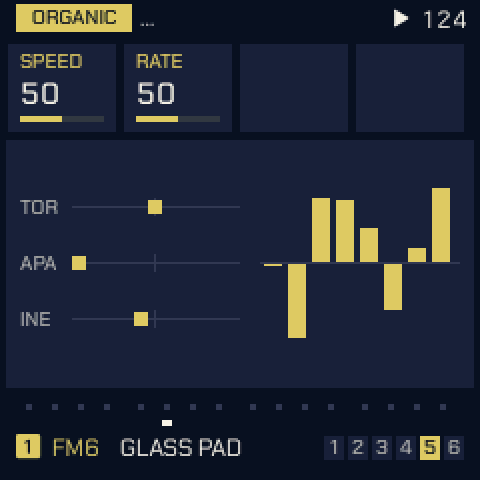
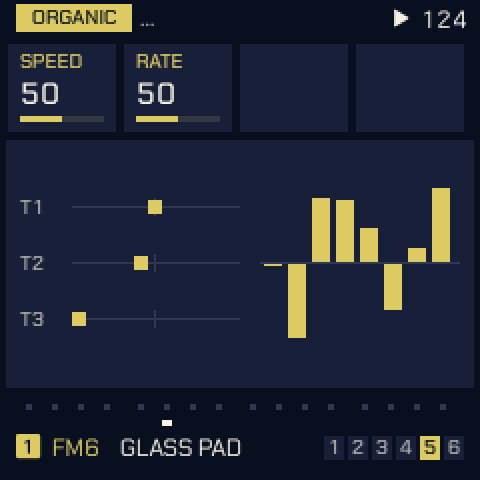
Docs: TIDE, SWARM and ATLAS names
Follows the on-screen renames (SLOTH/OCHD to TIDE/SWARM, GRIDS to ATLAS)
and re-renders the three screens that show them. Credits keep the
original works' names.

Claude-Session: https://claude.ai/code/session_01BpfmmeNBDntHrx6VWUu9nH

diff --git a/MANUAL.md b/MANUAL.md
@@ -30,7 +30,7 @@ page's four settings sit along the top of the screen in the same order.
 - [Harmony: CHORD and QNT CHRD](#harmony-chord-and-qnt-chrd)
 - [MODS: the modulation cords](#mods-the-modulation-cords)
 - [MATRIX](#matrix)
-- [ORGANIC: SLOTH and OCHD](#organic-sloth-and-ochd)
+- [ORGANIC: TIDE and SWARM](#organic-tide-and-swarm)
 - [Mod shortcut](#mod-shortcut)
 - [Help card](#help-card)
 - [Menu and settings](#menu-and-settings)
@@ -78,7 +78,7 @@ COLOR. Each track has its own colour, used for its tile, its cords and its row i
 |---|---|
 | Tap **SEQ** | **GEN** first: KNOB 1 (**MODE**) picks what the track plays. SEQ then shows only that mode's pages. |
 | Tap **ARP** | Switches a STEP track to ARP and opens **ARP**; tap again for **ARP 2**. On a generator track it opens GEN instead ("ARP: MODE ON GEN"), so a playing generator never goes quiet by accident. |
-| Hold **OCT+** on GEN | The generator's second layer, for QUAD, CHORD, GRIDS and CONSTELLATION (see [OCT+ layers](#oct-layers-on-gen)). |
+| Hold **OCT+** on GEN | The generator's second layer, for QUAD, CHORD, ATLAS and CONSTELLATION (see [OCT+ layers](#oct-layers-on-gen)). |
 | **GEN** on an AWAKE track, a white key | Picks that step: KNOB 1 sets its A, KNOB 2 its B. The same key lets it go. |
 | Hold **ARP**, turn a knob | The [help card](#help-card) for that knob. Turn the same knob further to make the text larger or scroll it. |
 | Hold **FX**, turn a knob | Sets how far a cord moves that knob's parameter (see [Mod shortcut](#mod-shortcut)). |
@@ -90,7 +90,7 @@ COLOR. Each track has its own colour, used for its tile, its cords and its row i
 | **MODS**, **OCT+** | Switches the picked mod between BI and UNI. |
 | **MATRIX**, **OCT+** | Opens the picked mod in MODS. |
 | **EDIT** on an EDIT page | The map of the sound's pages: KNOB 1 across a row, KNOB 2 between rows, OCT+ opens the page, OCT- or EDIT closes it. Any other page button leaves it for its page. |
-| **PLAY** | Every generator starts its random choices from the top of its seed, and SLOTH and OCHD restart: with EVOLVE's EVERY off, a project plays the same way each time. |
+| **PLAY** | Every generator starts its random choices from the top of its seed, and TIDE and SWARM restart: with EVOLVE's EVERY off, a project plays the same way each time. |
 
 ---
 
@@ -121,7 +121,7 @@ Tap **SEQ** for **GEN**, where **KNOB 1, MODE** picks what the selected track pl
 
 - **STEP**: the step sequencer.
 - **ARP**: the arpeggiator over the keys held (the ARP button gets here too).
-- One of twelve generators: **TURING**, **EUCLID**, **MARKOV**, **MORPH**, **GRIDS**, **BOUNCE**, **AWAKE**,
+- One of twelve generators: **TURING**, **EUCLID**, **MARKOV**, **MORPH**, **ATLAS**, **BOUNCE**, **AWAKE**,
   **POLY**, **QUAD**, **CONSTL** (Constellation), **SERIES** or **CHORD**.
 
 SEQ then shows only that mode's pages:
@@ -151,7 +151,7 @@ generator is also a mod source: its **GATE**, its **NOTE** and a **CV** (see [MO
 | **EUCLID** | STEPS (1–32) | PULSE | ROT | Hits spread as evenly as they go over STEPS, turned round by ROT, on pitches picked by the seed. |
 | **MARKOV** | LEAP (0–100 %) | DENS (5–100 %) | SPAN (1–3 oct) | A random walk over eight scale degrees. LEAP 0 moves to neighbours, 100 leaps widely. DENS is the chance a step plays. |
 | **MORPH** | POS (0–127) | SNP A (0–7) | SNP B (0–7) | A rhythm blended from preset A into preset B. POS starts halfway. |
-| **GRIDS** | X (0–255) | Y (0–255) | DENS (0–100 %) | Émilie Gillet's Grids (Mutable Instruments): its drum map, kick, snare, closed hat and a fourth part from the point X, Y. Best on a DRUM track. More on the [OCT+ layer](#grids-kick-snr-hat-toms). |
+| **ATLAS** | X (0–255) | Y (0–255) | DENS (0–100 %) | Inspired by Émilie Gillet's Grids (Mutable Instruments): its drum map, kick, snare, closed hat and a fourth part from the point X, Y. Best on a DRUM track. More on the [OCT+ layer](#atlas-kick-snr-hat-toms). |
 | **BOUNCE** | SPEED (1–64) | ANGLE (0–90°) | BALLS (1–4, Fall) | Balls in a box: a note where a ball hits a wall. Each extra ball starts from its own place and angle; balls that hit on the same step play together, three notes at most. Past 4, **FALL** (after ambalek's norns script Fall): eight leaves fall at their own speeds and play where they land (left low, right high), and ANGLE becomes **WIND**: calm in the middle, leaning the melody low or high either side, gusting further out. |
 | **AWAKE** | LEN A (1–16) | LEN B (1–16) | PROB (0–100 %) | Two loops, as norns' Awake. A is the melody (scale degrees or rests), B lifts it up the scale; different lengths shift B against A. Steps can be set from the keys (below). |
 | **POLY** | RHY (1–4) | DIVISION (OFF, /1–/16) | SPAN (1–3 oct) | Four notes stepped on by four rhythms. RHY picks which rhythm DIVISION edits. Rhythms that land together play once, louder: /4 against /3 is a polyrhythm. |
@@ -168,7 +168,7 @@ generator is also a mod source: its **GATE**, its **NOTE** and a **CV** (see [MO
 <td align="center" width="25%"><img src="assets/gallery/gen_morph.png" alt="MORPH" width="200"><br><b>MORPH</b></td>
 </tr>
 <tr>
-<td align="center"><img src="assets/gallery/gen_grids.png" alt="GRIDS" width="200"><br><b>GRIDS</b></td>
+<td align="center"><img src="assets/gallery/gen_grids.png" alt="ATLAS" width="200"><br><b>ATLAS</b></td>
 <td align="center"><img src="assets/gallery/gen_bounce.png" alt="BOUNCE" width="200"><br><b>BOUNCE</b></td>
 <td align="center"><img src="assets/gallery/gen_fall.png" alt="BOUNCE in FALL" width="200"><br><b>FALL</b></td>
 <td align="center"><img src="assets/gallery/gen_awake.png" alt="AWAKE" width="200"><br><b>AWAKE</b></td>
@@ -201,9 +201,9 @@ saved project keeps its seeds.
 Four generators have more settings than three knobs. Hold **OCT+** on GEN: the knobs' labels move onto tiles in the
 track's colour, an OCT+ key shows in the header, and the four knobs set the layer. Let go to return.
 
-<p align="center"><img src="assets/gallery/gen_grids_oct.png" alt="GRIDS with OCT+ held" width="240"> <img src="assets/gallery/gen_chord_oct.png" alt="CHORD with OCT+ held" width="240"> <img src="assets/gallery/gen_chord_user.png" alt="CHORD USER with OCT+ held" width="240"></p>
+<p align="center"><img src="assets/gallery/gen_grids_oct.png" alt="ATLAS with OCT+ held" width="240"> <img src="assets/gallery/gen_chord_oct.png" alt="CHORD with OCT+ held" width="240"> <img src="assets/gallery/gen_chord_user.png" alt="CHORD USER with OCT+ held" width="240"></p>
 
-### GRIDS: KICK, SNR, HAT, TOMS
+### ATLAS: KICK, SNR, HAT, TOMS
 
 | Knob | Setting | What it does |
 |---|---|---|
@@ -213,7 +213,7 @@ track's colour, an OCT+ key shows in the header, and the four knobs set the laye
 | 4 | **TOMS** (0–100 %) | A fourth part: the hits the kick and snare only just miss, so fills follow the groove. 0 none. |
 
 With OCT+ held, a **black key** picks the fourth part's sound, as on the drum grid: TOM, CLAP, OPEN HAT, RIM or
-BELL. The parts are also mod destinations: G KICK, G SNR, G HAT, G TOMS.
+BELL. The parts are also mod destinations: AT KICK, AT SNR, AT HAT, AT TOMS.
 
 ### CHORD: OCT, CHRD, VOIC (and LEN)
 
@@ -254,7 +254,7 @@ On a generator track, EVOLVE mutates the phrase every few bars.
 
 | Knob | Setting | What it does |
 |---|---|---|
-| 1 | **LOCK** (0–100 %) | How much of the phrase stays: 100 loops it, 0 is new every pass. Turing's LOCK is its PROB turned round, Grids' its CHAOS turned round, Constellation's the chance of its loop. Euclid, Bounce, Awake, Poly and Quad have none. |
+| 1 | **LOCK** (0–100 %) | How much of the phrase stays: 100 loops it, 0 is new every pass. Turing's LOCK is its PROB turned round, Atlas' its CHAOS turned round, Constellation's the chance of its loop. Euclid, Bounce, Awake, Poly and Quad have none. |
 | 2 | **EVERY** | Mutates every OFF, 1, 2, 4, 8 or 16 bars. OFF keeps the phrase. |
 | 3 | **AMOUNT** (0–100 %) | How much changes each time. |
 | 4 | **ROLL** (1–128) | The track's seed. While playing, a new seed starts on the track's next bar line (the number blinks until then). |
@@ -304,7 +304,7 @@ are reached. Changing MODE or ROLL starts the form again at A.
 | 3 | **HUMAN** (0–100 %) | Varies velocity and gate a little, as a player would. |
 | 4 | **FOLLOW** | OFF, or T1 to T4: plays that track's pitch, SHIFT away, in this track's scale. STEP tracks can be followed too. The followed track is drawn in its own colour. |
 
-On a GRIDS track only DROP and HUMAN apply: SHIFT, FOLLOW and FLRSH would change which drum plays.
+On an ATLAS track only DROP and HUMAN apply: SHIFT, FOLLOW and FLRSH would change which drum plays.
 
 ---
 
@@ -329,7 +329,7 @@ How long a generator holds its notes.
 
 | Knob | Setting | What it does |
 |---|---|---|
-| 1 | **LENGTH** | **STEP**: the step's GATE. **FIXED**: LEN, whatever the DIV. **HIT**: until the next hit, so rests let notes ring. GRIDS keeps STEP. |
+| 1 | **LENGTH** | **STEP**: the step's GATE. **FIXED**: LEN, whatever the DIV. **HIT**: until the next hit, so rests let notes ring. ATLAS keeps STEP. |
 | 2 | **LEN** | FIXED's length: 1/32 to 1/1 (a bar). |
 | 3 | **KEYS** (1–4) | FIXED: how many notes may hold at once. |
 | 4 | **GATE** | The track's step gate, as on PATTERN. |
@@ -370,12 +370,12 @@ at a time, each with an activity light and a moving mark.
 
 | Knob | What it sets |
 |---|---|
-| 1 | **Source**: `--`, then per track (T1 to T4) LFO, ENV, VEL, KEY, RAND, MODW, AT, EXPR, S&H, SLEW, the generator's GATE, NOTE and CV, DRIFT, SLOTH's TORPOR, APATHY and INERTIA, and OCHD 1 to 8. |
+| 1 | **Source**: `--`, then per track (T1 to T4) LFO, ENV, VEL, KEY, RAND, MODW, AT, EXPR, S&H, SLEW, the generator's GATE, NOTE and CV, DRIFT, TIDE 1 to 3, and SWARM 1 to 8. |
 | 2 | **Mod**: which of the 16 the other knobs edit. |
-| 3 | **Destination**, on a track: the voice (PITCH, CUTOFF, SHAPE, GAIN), the mix (LEVEL, PAN, SPREAD, FX SEND), the envelope and LFO settings, the engine's E1 to E8, and the generators' settings (T PROB, T LEN, E PULSE, E ROT, M LEAP, M DENS, MP POS, SHIFT, DROP, HUMAN, BRANCH, EV AMT, CONTR, G X, G Y, G DENS, G KICK, G SNR, G HAT, G TOMS, B SPEED, B ANGLE, A PROB, Q PROB, C Y, C SIZE, C DENS, C AUTO, S START, CH PROG). |
+| 3 | **Destination**, on a track: the voice (PITCH, CUTOFF, SHAPE, GAIN), the mix (LEVEL, PAN, SPREAD, FX SEND), the envelope and LFO settings, the engine's E1 to E8, and the generators' settings (T PROB, T LEN, E PULSE, E ROT, M LEAP, M DENS, MP POS, SHIFT, DROP, HUMAN, BRANCH, EV AMT, CONTR, AT X, AT Y, AT DENS, AT KICK, AT SNR, AT HAT, AT TOMS, B SPEED, B ANGLE, A PROB, Q PROB, C Y, C SIZE, C DENS, C AUTO, S START, CH PROG). |
 | 4 | **Amount**, −100 to +100 %. With no source (`--`) the cord is a fixed move and KNOB 4 sets its offset. |
 
-- **BI and UNI.** A bipolar source (LFO at POL BI, KEY, RAND, S&H, SLEW, NOTE, DRIFT, SLOTH, OCHD) swings both
+- **BI and UNI.** A bipolar source (LFO at POL BI, KEY, RAND, S&H, SLEW, NOTE, DRIFT, TIDE, SWARM) swings both
   ways from the knob. Press **OCT+** on MODS to make the picked mod **UNI**: the source folded to 0 to 1, so it moves
   one way only, as ENV does.
 - Choosing a destination on a new cord sets the amount to 50 % (or a fixed move of 25 % with no source), so you hear
@@ -405,14 +405,14 @@ top (TO). A cell is lit, in the source track's colour, when a cord goes that way
 
 ---
 
-## ORGANIC: SLOTH and OCHD
+## ORGANIC: TIDE and SWARM
 
-Each track has its own SLOTH and OCHD, slow sources in the style of Nonlinearcircuits' Sloth and Instruō's ochd.
+Each track has its own TIDE and SWARM, slow sources inspired by Nonlinear Circuits' Triple Sloth and Instruō's ochd.
 
 | Knob | Setting | What it does |
 |---|---|---|
-| 1 | **SPEED** (0–100) | SLOTH's speed. At 50 its three chaotic circuits take about 17 minutes (**TORPOR**), 1 minute (**APATHY**) and 3 minutes (**INERTIA**) a turn; each 12.5 more is twice as fast. |
-| 2 | **RATE** (0–100) | OCHD's speed. At 50, **OCHD 1** takes 64 s a turn and **OCHD 8** 2.4 s; each 12.5 more is twice as fast. |
+| 1 | **TIDE SPEED** (0–100) | TIDE's speed. At 50 its three chaotic circuits take about 17 minutes (**TIDE 1**), 3 minutes (**TIDE 2**) and 1 minute (**TIDE 3**) a turn; each 12.5 more is twice as fast. |
+| 2 | **SWARM RATE** (0–100) | SWARM's speed. At 50, **SWARM 1** takes 64 s a turn and **SWARM 8** 2.4 s; each 12.5 more is twice as fast. |
 
 PLAY restarts them from the track's seed, so a piece replays the same way. Pick them as sources on MODS.
 
@@ -483,12 +483,12 @@ before. Stock Melodee projects load with every track on STEP. Melodee's own pres
 Tessera stands on other people's ideas and work:
 
 - **Melodee** by keremimo, and **Felucca** by Leo Kuroshita / Hügelton Instruments: the firmware Tessera is built on.
-- **Grids** by Émilie Gillet / Mutable Instruments: the GRIDS generator's drum map and the way it is read.
+- **Grids** by Émilie Gillet / Mutable Instruments: the ATLAS generator's drum map and the way it is read.
 - **norns** scripts, as ideas restated in C (no code copied): **Awake** (tehn) for AWAKE, **Fall** (ambalek) for
   BOUNCE's FALL, **Constellation** (timothy-taylor) for CONSTELLATION, **initenere** for QUAD, and **nørgård** for
   SERIES.
 - **Turing Machine** (Music Thing Modular) for TURING.
-- **Triple Sloth** by Nonlinear Circuits (Andrew Fitch), with J. C. Sprott's jerk system, for SLOTH; **ochd** by
-  Instruō and DivKid for OCHD (ideas only, no code copied).
+- **Triple Sloth** by Nonlinear Circuits (Andrew Fitch), with J. C. Sprott's jerk system, for TIDE; **ochd** by
+  Instruō and DivKid for SWARM (ideas only, no code copied).
 
 Every third-party part and its licence is listed in [LICENSING.md](LICENSING.md).

diff --git a/RECIPES.md b/RECIPES.md
@@ -13,9 +13,9 @@ and ORGANIC under **LFO**, SCL and CHORD under **SCL**.
 - [Your own progression (CHORD USER)](#your-own-progression-chord-user)
 - [Two tracks answering each other (BRANCH)](#two-tracks-answering-each-other-branch)
 - [A harmony line that follows (FOLLOW)](#a-harmony-line-that-follows-follow)
-- [Grids: a groove with fills](#grids-a-groove-with-fills)
-- [Grids: variations that repeat (FORM)](#grids-variations-that-repeat-form)
-- [Grids: movement that repeats (an LFO on X or Y)](#grids-movement-that-repeats-an-lfo-on-x-or-y)
+- [Atlas: a groove with fills](#atlas-a-groove-with-fills)
+- [Atlas: variations that repeat (FORM)](#atlas-variations-that-repeat-form)
+- [Atlas: movement that repeats (an LFO on X or Y)](#atlas-movement-that-repeats-an-lfo-on-x-or-y)
 - [Polyrhythms: POLY and QUAD](#polyrhythms-poly-and-quad)
 - [Notes that travel between tracks (QUAD columns)](#notes-that-travel-between-tracks-quad-columns)
 - [A melody you can come back to (CONSTELLATION)](#a-melody-you-can-come-back-to-constellation)
@@ -24,7 +24,7 @@ and ORGANIC under **LFO**, SCL and CHORD under **SCL**.
 - [Pads from sparse notes (LENGTH HIT)](#pads-from-sparse-notes-length-hit)
 - [Entries and arrangements (COND and FORM)](#entries-and-arrangements-cond-and-form)
 - [From generator to pattern (print, then STEP EVOLVE)](#from-generator-to-pattern-print-then-step-evolve)
-- [Movement over minutes (SLOTH and OCHD)](#movement-over-minutes-sloth-and-ochd)
+- [Movement over minutes (TIDE and SWARM)](#movement-over-minutes-tide-and-swarm)
 - [Driving another synth (MIDI OUT)](#driving-another-synth-midi-out)
 
 **[Tips](#tips)**
@@ -36,7 +36,7 @@ and ORGANIC under **LFO**, SCL and CHORD under **SCL**.
 1. Power on. Track 1 is **GLASS PAD**, track 2 **STRINGS**, track 3 **BELLS**, track 4 the **808 KIT**.
 2. Track 3 (BELLS): **SEQ** for GEN, **MODE** to **TURING**. Press **PLAY**: a looping melody in the track's scale.
 3. **PROB** at about 20: the loop changes a little each time round. At 0 (Lock) it holds.
-4. Track 4: MODE **GRIDS**, **DENS** at 50. A drum groove under it.
+4. Track 4: MODE **ATLAS**, **DENS** at 50. A drum groove under it.
 5. Track 3 again, **EVOLVE**: turn **ROLL** a click at a time until you like the line. The number is its seed: write
    it down and you can always come back to it.
 6. **SCL** on track 3 to change the scale; the generator follows at once.
@@ -47,8 +47,8 @@ A held chord that changes slowly, for ambient beds.
 
 1. Track 1 (GLASS PAD): GEN, MODE **CHORD**, **PROG DRONE** (the I chord alone), **BARS 4**, **HIT HOLD**.
 2. Hold **OCT+** on GEN: **CHRD DIA7** (a seventh in the scale), **VOICING OPEN**, **OCTAVES −1** for weight.
-3. **MODS**: a cord from **T1 TORPOR** (SLOTH's slowest circuit) to **T1 CUTOFF**, amount about +30 %.
-4. A second cord from **T1 OCHD 2** to **T1 PAN**, about +20 %: the pad drifts across the stereo field.
+3. **MODS**: a cord from **T1 TIDE 1** (TIDE's slowest circuit) to **T1 CUTOFF**, amount about +30 %.
+4. A second cord from **T1 SWARM 2** to **T1 PAN**, about +20 %: the pad drifts across the stereo field.
 5. For a drone that moves through the scale, set PROG to **WALK**: four chords from the seed, and EVOLVE (EVERY 8,
    AMOUNT 30) changes one now and then.
 
@@ -74,7 +74,7 @@ A held chord that changes slowly, for ambient beds.
 2. Track 3, **TWEAK 2**: **TO** to **T1 COIN**, **BRANCH 40 %**. About four hits in ten now play on the pad.
 3. **TOGGLE** instead of COIN alternates: at 100 % every other hit goes across, a strict call and response.
 4. **LATCH** tosses once a bar: whole bars swap between the two sounds.
-5. The tosses replay with the seed. A cord from an **OCHD** to **BRANCH** sweeps how often hits cross over.
+5. The tosses replay with the seed. A cord from a **SWARM** to **BRANCH** sweeps how often hits cross over.
 
 ## A harmony line that follows (FOLLOW)
 
@@ -84,32 +84,32 @@ A held chord that changes slowly, for ambient beds.
 3. **SHIFT −7** for a line an octave below in a seven-note scale. **DROP 50** thins the harmony so it only answers
    now and then.
 
-## Grids: a groove with fills
+## Atlas: a groove with fills
 
-1. Track 4 (808 KIT): MODE **GRIDS**, **X** and **Y** where you like the groove, **DENS 60**.
+1. Track 4 (808 KIT): MODE **ATLAS**, **X** and **Y** where you like the groove, **DENS 60**.
 2. Hold **OCT+** on GEN: **TOMS 40** brings in the hits the kick and snare only just miss, so fills follow the
    groove. Press a **black key** (still holding OCT+) to put that part on **CLAP**, **OPEN HAT**, **RIM** or **BELL**
    instead.
 3. Still holding OCT+: **HAT 30** thins the hats, **KICK 100** keeps the kick full.
-4. **TWEAK 2**: **COND 4:4** on a second GRIDS track, with the fourth part on CLAP and DENS high, gives a fill on
+4. **TWEAK 2**: **COND 4:4** on a second ATLAS track, with the fourth part on CLAP and DENS high, gives a fill on
    every fourth bar only.
 
-## Grids: variations that repeat (FORM)
+## Atlas: variations that repeat (FORM)
 
-FORM turns a GRIDS track into a short song form: sections A, B and C, each a point on the Grids map, played in an
+FORM turns an ATLAS track into a short song form: sections A, B and C, each a point on the Atlas map, played in an
 order such as AABA. A section played again comes back exactly, so the variations repeat.
 
-1. GEN: **MODE GRIDS**; set **X** and **Y** (where on the map) and **DENS** (how full). This is section A.
+1. GEN: **MODE ATLAS**; set **X** and **Y** (where on the map) and **DENS** (how full). This is section A.
 2. EVOLVE: **EVERY** sets how long each section lasts: 1, 2, 4, 8 or 16 bars. (Turning FORM on with EVERY OFF sets
    4 bars.)
 3. FORM: **FORM** picks the order: AB, ABAC, ABCB, AABA, ABCA or AABC. The whole form lasts the sections times
    EVERY: AB at 2 bars repeats every 4 bars, AABA at 4 bars every 16.
 4. FORM: **CONTR** (contrast) sets how far a new section moves from the one before: low, a small change of pattern;
    high, a different groove.
-5. For exact repeats, take out the other randomness: EVOLVE **LOCK** at 100 (for GRIDS, LOCK is CHAOS turned round:
+5. For exact repeats, take out the other randomness: EVOLVE **LOCK** at 100 (for ATLAS, LOCK is CHAOS turned round:
    100 is no chaos), and TWEAK **DROP** and **HUMAN** at 0. A lower LOCK brings back a little variation in every bar
    on top of the form.
-6. FORM **FLRSH**, TWEAK **SHIFT** and **FOLLOW** do nothing on a GRIDS track (they would change which drum plays).
+6. FORM **FLRSH**, TWEAK **SHIFT** and **FOLLOW** do nothing on an ATLAS track (they would change which drum plays).
 
 Shaping the sections by hand:
 
@@ -122,22 +122,22 @@ Shaping the sections by hand:
 EVOLVE without FORM (EVERY and AMOUNT set, FORM OFF) is the other way round: every EVERY bars X and Y take a random
 step of up to AMOUNT, so the groove keeps wandering and does not come back.
 
-## Grids: movement that repeats (an LFO on X or Y)
+## Atlas: movement that repeats (an LFO on X or Y)
 
 A cord from an LFO synced to the bars moves the point across the map in a loop, the same every time. FORM can be on
 as well: the sections set the point, the LFO moves around it.
 
-1. On the GRIDS track, the LFO pages:
+1. On the ATLAS track, the LFO pages:
    - **LFO 2**: **SYNC** to **4BAR**, **2BAR** or **1/1** (the loop's length); **TRIG** to **FREE**. TRIG NOTE (the
      default) restarts the LFO with every note, and a drum track plays nearly every step, so the LFO would hardly
      move. FREE starts it on PLAY and keeps it in time with the bars.
    - **LFO**: **WAVE** SIN or TRI sweeps back and forth; SAW ramps and jumps back; SQR swaps between two points (an
      A/B change every half loop). **PHS** sets where in its loop it starts. **FADE** at 0.
    - **LFO DEST**: leave PIT, FLT, SHP and AMP at 0, so the LFO moves only the cord, not the drum sound.
-2. **MODS**: a cord with source **LFO** (this track's), destination **G X** (or **G Y**, **G DENS**, **G TOMS**) on
+2. **MODS**: a cord with source **LFO** (this track's), destination **AT X** (or **AT Y**, **AT DENS**, **AT TOMS**) on
    this track, and an amount: how far it moves X from the knob's setting.
 3. For a figure on the map, move X and Y with two different loops: a second cord from another track's LFO (with its
-   own SYNC, say 2BAR against 4BAR) to **G Y**. With that track's LFO DEST at 0 its sound stays as it is.
+   own SYNC, say 2BAR against 4BAR) to **AT Y**. With that track's LFO DEST at 0 its sound stays as it is.
 
 Not for repeating: **DRIFT** wanders freely, and **RAND** and the LFO's **S&H** wave pick new values. They make a
 groove that keeps changing, which is the other use.
@@ -179,7 +179,7 @@ groove that keeps changing, which is the other use.
 3. **FILL ARP** fills the steps between stars with the last four stars, low to high and softer.
 4. Let the ship steer itself: **MODS**, a cord with no source (`--`) to **C AUTO** on this track, offset to taste:
    low values wander slowly, **SEEK** flies to the next star.
-5. **Y** sets where the melody sits; a slow LFO or OCHD on **C Y** moves it up and down the sky.
+5. **Y** sets where the melody sits; a slow LFO or SWARM on **C Y** moves it up and down the sky.
 
 ## A slow lead from the infinity series (SERIES)
 
@@ -195,7 +195,7 @@ groove that keeps changing, which is the other use.
    high, one in seven an octave down.
 2. **ANGLE** is now **WIND**: the middle is calm; turning it leans the melody low or high. Further out, gusts send the
    leaves down together, in bursts.
-3. **MODS**: a cord from an **OCHD** (OCHD 3, about 25 s a turn) to **B ANGLE**: the wind rises and falls.
+3. **MODS**: a cord from a **SWARM** (SWARM 3, about 25 s a turn) to **B ANGLE**: the wind rises and falls.
 4. **SPEED** slower (10 to 20) for a sparse, rain-like part.
 
 ## Pads from sparse notes (LENGTH HIT)
@@ -226,15 +226,15 @@ groove that keeps changing, which is the other use.
    a note moved, one dropped, a ghost note. The steps themselves do not change.
 5. Like a variation? Hold **REC** to keep it (KEPT n STEPS). **CLEAR** goes back to the steps as written.
 
-## Movement over minutes (SLOTH and OCHD)
+## Movement over minutes (TIDE and SWARM)
 
 1. **LFO** to **ORGANIC** on any track: **SPEED** and **RATE** at 50 to start.
-2. **MODS**: **T1 APATHY** (about a minute a turn) to **T2 CUTOFF**; **T1 INERTIA** (about 3 minutes) to **T3 FX
-   SEND**; **T1 OCHD 5** (about 10 s) to **T4 G DENS**.
+2. **MODS**: **T1 TIDE 3** (about a minute a turn) to **T2 CUTOFF**; **T1 TIDE 2** (about 3 minutes) to **T3 FX
+   SEND**; **T1 SWARM 5** (about 10 s) to **T4 AT DENS**.
 3. Press **OCT+** on a mod to make it **UNI**: it moves only up from the knob, never below, which is often what you
    want for FX SEND and density.
 4. **MATRIX** shows the patch at a glance: rows are sources, columns destinations, lit as they move.
-5. Because PLAY restarts SLOTH and OCHD from the seed, the same project unfolds the same way each time.
+5. Because PLAY restarts TIDE and SWARM from the seed, the same project unfolds the same way each time.
 
 ## Driving another synth (MIDI OUT)
 
@@ -259,7 +259,7 @@ groove that keeps changing, which is the other use.
 
 - The small number on **ROLL** is the track's seed. Note the ones you like: the same seed with the same settings
   always plays the same line.
-- **PLAY** restarts every generator's random choices, and SLOTH and OCHD, from the top: with EVERY OFF a project
+- **PLAY** restarts every generator's random choices, and TIDE and SWARM, from the top: with EVERY OFF a project
   sounds the same every time. Set EVERY to let it drift.
 - On TURING, **PROB 0** (Lock) freezes the loop you are hearing; turn it up a little to let it evolve again.
 

diff --git a/README.md b/README.md
@@ -39,7 +39,7 @@ page also has a way back to the official V15 firmware, with a backup first.
 
 ## What's inside
 
-* **Twelve generators** on SEQ > GEN: TURING, EUCLID, MARKOV, MORPH, GRIDS (with a fourth drum part), BOUNCE (and
+* **Twelve generators** on SEQ > GEN: TURING, EUCLID, MARKOV, MORPH, ATLAS (with a fourth drum part), BOUNCE (and
   FALL), AWAKE, POLY, QUAD, CONSTELLATION, SERIES and CHORD, besides the step sequencer and the arpeggiator.
 * **Shaping**: EVOLVE mutates a phrase every few bars, and **STEP EVOLVE** does the same to steps you wrote; FORM
   builds sections such as AABA; TWEAK shifts, drops, humanises or follows another track; TWEAK 2 branches hits
@@ -47,7 +47,7 @@ page also has a way back to the official V15 firmware, with a backup first.
   hold.
 * **Harmony**: a CHORD track plays a progression (or your own), and **QNT CHRD** makes the other tracks follow it.
 * **Modulation**: 16 cords from any source to any destination on any track, generators included; slow organic
-  sources (SLOTH, OCHD); live marks on every knob a cord moves, and **MATRIX** to see the whole patch.
+  sources (TIDE, SWARM); live marks on every knob a cord moves, and **MATRIX** to see the whole patch.
 * **Print**: hold REC to turn what a generator played into ordinary steps.
 * **Sounds**: FM6 (six-operator FM, three engine models), TRIO and DRUM (808, 909, SID KIT).
 * **MIDI OUT** of every track and the generators, and **CLOCK OUT**, over USB.
@@ -67,7 +67,7 @@ patches and tips.
 <tr>
 <td align="center" valign="top" width="33%"><img src="assets/gallery/home.png" alt="HOME" width="240"><br><b>HOME</b><br><sub>The four tracks, their sounds and knobs.</sub></td>
 <td align="center" valign="top" width="33%"><img src="assets/gallery/gen_constel.png" alt="CONSTELLATION" width="240"><br><b>CONSTELLATION</b><br><sub>Stars play as they cross the ship's crosshair (after the norns script Constellation).</sub></td>
-<td align="center" valign="top" width="33%"><img src="assets/gallery/gen_grids.png" alt="GRIDS" width="240"><br><b>GRIDS</b><br><sub>Émilie Gillet's Grids drum map (Mutable Instruments): kick, snare, hat and a fourth part.</sub></td>
+<td align="center" valign="top" width="33%"><img src="assets/gallery/gen_grids.png" alt="ATLAS" width="240"><br><b>ATLAS</b><br><sub>Inspired by Émilie Gillet's Grids (Mutable Instruments): kick, snare, hat and a fourth part.</sub></td>
 </tr>
 <tr>
 <td align="center" valign="top"><img src="assets/gallery/gen_quad.png" alt="QUAD" width="240"><br><b>QUAD</b><br><sub>A 4 x 4 grid of notes the tracks share, a row each (after the norns script initenere).</sub></td>
@@ -112,9 +112,9 @@ See [BUILDING.md](BUILDING.md). The host tests run with `tests/run_tests.sh`; th
 GPL-3.0-only, inherited from Melodee. Original copyright and SPDX headers are preserved. Melodee is by keremimo,
 Felucca by Leo Kuroshita / Hügelton Instruments.
 
-The GRIDS generator uses the drum map of **Grids** by Émilie Gillet / Mutable Instruments. Several generators are
+The ATLAS generator uses the drum map of **Grids** by Émilie Gillet / Mutable Instruments. Several generators are
 inspired by **norns** scripts (ideas only, no code copied): **QUAD** by initenere, **FALL** by ambalek's Fall,
 **CONSTELLATION** by timothy-taylor's Constellation, **AWAKE** by tehn's Awake and **SERIES** by nørgård. The
-SLOTH and OCHD mod sources are inspired by **Triple Sloth** by Nonlinear Circuits (Andrew Fitch) and **ochd** by
+The TIDE and SWARM mod sources are inspired by **Triple Sloth** by Nonlinear Circuits (Andrew Fitch) and **ochd** by
 Instruō and DivKid. See
 [LICENSING.md](LICENSING.md) for every third-party part and its licence.
